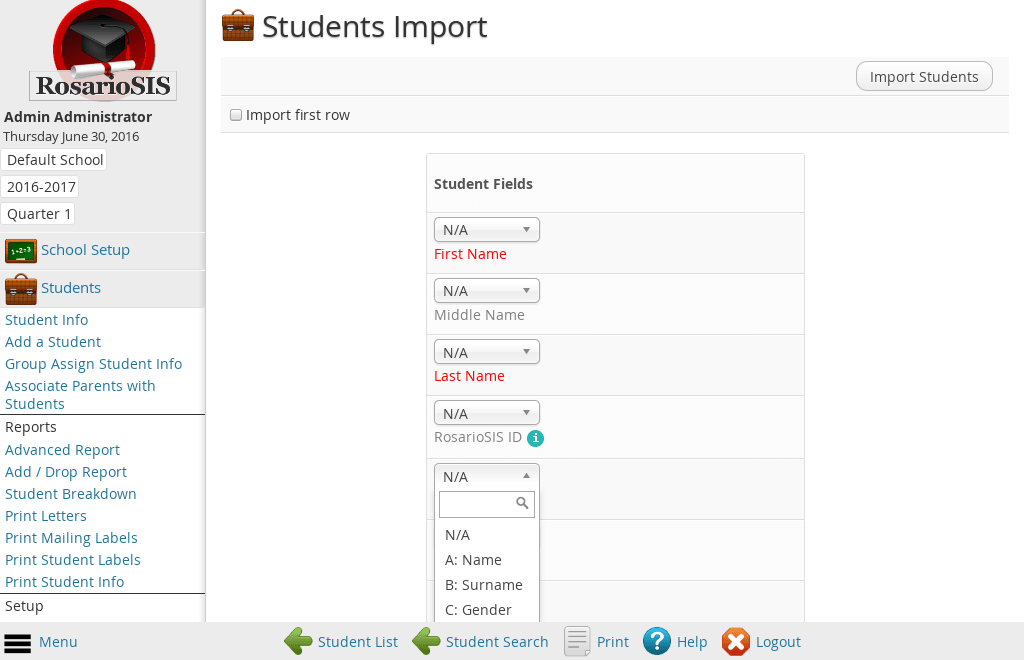
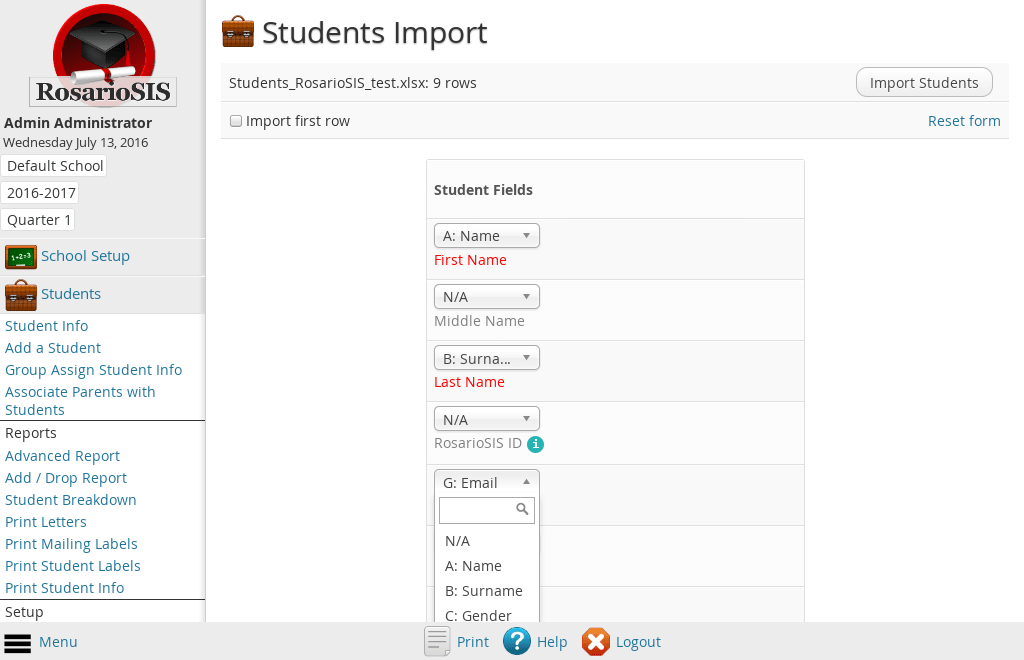
Add Original file name + number of rows
Update Spanish & French translation
Update screenshot
Update version 1.3

diff --git a/StudentsImport.php b/StudentsImport.php
@@ -22,6 +22,9 @@ if ( $_REQUEST['modfunc'] === 'upload' )
 	if ( ! isset( $_SESSION['StudentsImport.php']['csv_file_path'] )
 		|| ! $_SESSION['StudentsImport.php']['csv_file_path'] )
 	{
+		// Save original file name.
+		$_SESSION['StudentsImport.php']['original_file_name'] = $_FILES['students-import-file']['name'];
+
 		// Upload CSV file.
 		$students_import_file_path = FileUpload(
 			'students-import-file',
@@ -148,9 +151,13 @@ elseif ( $_REQUEST['modfunc'] === 'upload' )
 		echo '<form action="Modules.php?modname=' . $_REQUEST['modname'] .
 			'&modfunc=import" method="POST" class="import-students-form">';
 
+		$rows_number = file( $_SESSION['StudentsImport.php']['csv_file_path'] );
+
+		$rows_number = count( $rows_number );
+
 		DrawHeader(
-			'<a href="Modules.php?modname=' . $_REQUEST['modname'] . '&modfunc=upload">' .
-				dgettext( 'Students_Import', 'Reset form' ) . '</a>',
+			$_SESSION['StudentsImport.php']['original_file_name'] . ': ' .
+				sprintf( dgettext( 'Students_Import', '%s rows' ), $rows_number ),
 			SubmitButton(
 				dgettext( 'Students_Import', 'Import Students' ),
 				'',
@@ -207,12 +214,15 @@ elseif ( $_REQUEST['modfunc'] === 'upload' )
 
 		// Import first row? (generally column names).
 		DrawHeader( CheckboxInput(
-			'',
-			'import-first-row',
-			dgettext( 'Students_Import', 'Import first row' ),
-			'',
-			true
-		) );
+				'',
+				'import-first-row',
+				dgettext( 'Students_Import', 'Import first row' ),
+				'',
+				true
+			),
+			'<a href="Modules.php?modname=' . $_REQUEST['modname'] . '&modfunc=upload">' .
+				dgettext( 'Students_Import', 'Reset form' ) . '</a>'
+		);
 
 		// Premium: Custom date format (update tooltips on change), may be necessary for Japan: YY-MM-DD?
 		// Premium: Custom checkbox checked format (update tooltips on change).

diff --git a/includes/StudentsImport.fnc.php b/includes/StudentsImport.fnc.php
@@ -212,9 +212,9 @@ function CSVImport( $csv_file_path )
 		{
 			if ( isset( $columns_values[ $col ] ) )
 			{
-				foreach ( $columns_values[ $col ] as $column )
+				foreach ( (array) $columns_values[ $col ] as $field )
 				{
-					$students[ $row ][ $column ] = $data[ $col ];
+					$students[ $row ][ $field ] = $data[ $col ];
 				}
 			}
 		}

diff --git a/README.md b/README.md
@@ -5,7 +5,7 @@ Students Import Module
 
 http://github.com/francoisjacquet/Students_Import
 
-Version 1.2 - July, 2016
+Version 1.3 - July, 2016
 
 Author François Jacquet
 
